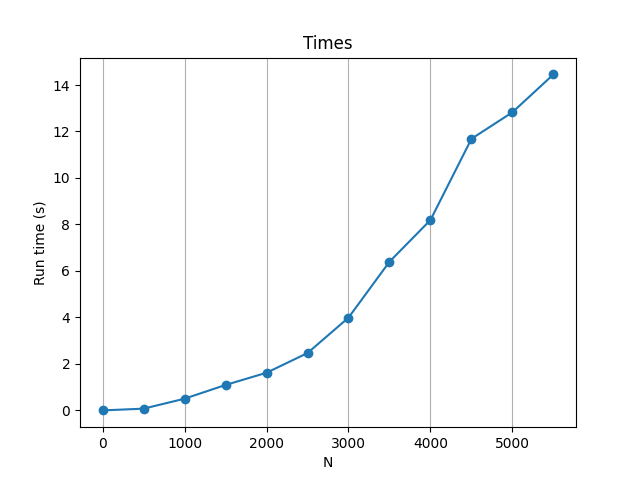
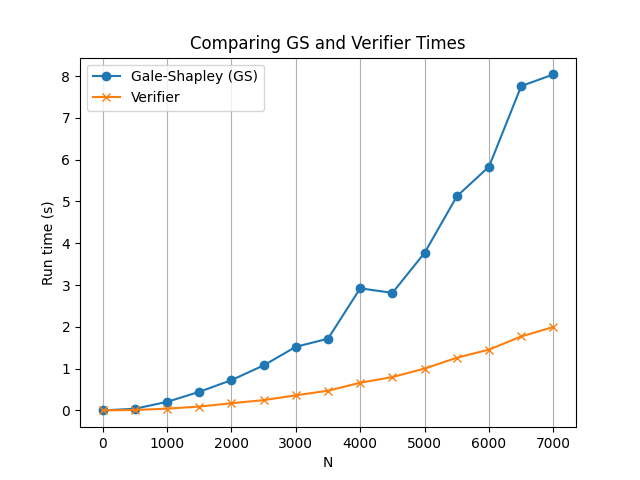
Edited the README.md file to contain the most up to date changes. Included a comparison between the verifier and algorithm in Task C. Lastly, added functionality for a manual CLI GS verifier.

diff --git a/src/main.py b/src/main.py
@@ -1,6 +1,6 @@
 import argparse
 
-from gale_shapley import GaleShapley
+from src.gale_shapley import GaleShapley
 from collections.abc import Iterable  # Checking if a hospital is matched with multiple students
 from pathlib import Path
 
@@ -65,6 +65,8 @@ def write_output(hospital_student_matching: dict[int, int], output_file: str) ->
         for hospital in hospital_student_matching:
             student = hospital_student_matching[hospital]
             file.write(f"{hospital} {student}\n")
+
+    print(f"Output was written to {output_file_path}")
 
 
 def verify_matching(matching: dict[int, int], hospital_preferences: dict[int, list[int]], student_preferences: dict[int, list[int]]) -> bool:
@@ -142,15 +144,64 @@ if __name__ == "__main__":
                                      "preferences. It creates a map based on these preferences, and "
                                      "then passes them into the Gale-Shapley algorithm.")
 
-    parser.add_argument("filename", type=str,
+    parser.add_argument("--filename", type=str,
                         help="The input file (complete filepath from the home project directory). A simple example "
                              "would be "
                              "`python src/main.py input_files/example_1.in`")
 
-    args = parser.parse_args()
-    hospital_pref, student_pref = parse_input(args.filename)
+    parser.add_argument("--v", action="store_true",
+                        help="Flag to specify the user only wants to test the verifier")
 
-    gs = GaleShapley()
-    result = gs.find_matches(hospital_pref, student_pref)
-    verify_matching(result, hospital_pref, student_pref)
-    write_output(result, args.filename)
+    args = parser.parse_args()
+    if args.v:
+        print("Enter the current hospital preferences separated by spaces (e.g. 1 2 3), or 'STOP' to enter student preferences:")
+        currentID = 1
+        hospital_preferences: dict[int, list[int]] = {}
+        user_input = ""
+        while user_input != "STOP":
+            user_input = input()
+            if user_input == "STOP":
+                break
+            try:
+                hospital_preferences[currentID] = [int(num) for num in user_input.split()]
+                currentID += 1
+            except ValueError:
+                print("Input was invalid, try again. Enter the current hospital preferences separated by spaces (e.g. 1 2 3), or 'STOP' to enter student preferences:")
+
+        print("Enter the current student preferences separated by spaces (e.g. 1 2 3), or 'STOP' to enter final matching:")
+        currentID = 1
+        student_preferences: dict[int, list[int]] = {}
+        user_input = ""
+        while user_input != "STOP":
+            user_input = input()
+            if user_input == "STOP":
+                break
+            try:
+                student_preferences[currentID] = [int(num) for num in user_input.split()]
+                currentID += 1
+            except ValueError:
+                print(
+                    "Input was invalid, try again. Enter the current student preferences separated by spaces (e.g. 1 2 3), or 'STOP' to enter final matching:")
+
+        print("Enter the current matching (e.g. 1 2), or 'STOP' to start the verifier:")
+        matching: dict[int, int] = {}
+        user_input = ""
+        while user_input != "STOP":
+            user_input = input()
+            if user_input == "STOP":
+                break
+            try:
+                pair = [int(num) for num in user_input.split()]
+                matching[pair[0]] = pair[1]
+            except ValueError:
+                print(
+                    "Input was invalid, try again. Enter the current matching (e.g. 1 2), or 'STOP' to start the verifier:")
+
+        verify_matching(matching, hospital_preferences, student_preferences)
+    else:
+        hospital_pref, student_pref = parse_input(args.filename)
+
+        gs = GaleShapley()
+        result = gs.find_matches(hospital_pref, student_pref)
+        verify_matching(result, hospital_pref, student_pref)
+        write_output(result, args.filename)

diff --git a/tests/test_gale_shapley.py b/tests/test_gale_shapley.py
@@ -1,9 +1,147 @@
-import unittest
+from src.gale_shapley import GaleShapley
+from src.main import verify_matching
 
+gs = GaleShapley()
 
-class TestStringMethods(unittest.TestCase):
-    pass
+def test_simple_gs():
+    h_pref: dict[int, list[int]] = {
+        1: [1, 2, 3],
+        2: [2, 3, 1],
+        3: [2, 1, 3]
+    }
+    s_pref: dict[int, list[int]] = {
+        1: [2, 1, 3],
+        2: [1, 2, 3],
+        3: [1, 2, 3]
+    }
+    assert gs.find_matches(h_pref, s_pref) == {
+        1: 1,
+        2: 2,
+        3: 3
+    }
 
+def test_simple_verification():
+    h_pref: dict[int, list[int]] = {
+        1: [1, 2, 3],
+        2: [2, 1, 3],
+        3: [3, 2, 1]
+    }
+    s_pref: dict[int, list[int]] = {
+        1: [1, 2, 3],
+        2: [2, 1, 3],
+        3: [1, 2, 3]
+    }
+    matching: dict[int, int] = {
+        1: 1,
+        2: 2,
+        3: 3
+    }
+    assert verify_matching(matching, h_pref, s_pref) == True
 
-if __name__ == "__main__":
-    unittest.main()
+def test_invalid_verification():
+    h_pref: dict[int, list[int]] = {
+        1: [1, 2, 3],
+        2: [2, 1, 3],
+        3: [3, 2, 1]
+    }
+    s_pref: dict[int, list[int]] = {
+        1: [1, 2, 3],
+        2: [2, 1, 3],
+        3: [1, 2, 3]
+    }
+    matching: dict[int, int] = {
+        1: 2,
+        2: 1,
+        3: 3
+    }
+    assert verify_matching(matching, h_pref, s_pref) == False
+
+def test_invalid_missing_val():
+    h_pref: dict[int, list[int]] = {
+        1: [1, 2, 3],
+        2: [2, 1, 3],
+        3: [3, 2, 1]
+    }
+    s_pref: dict[int, list[int]] = {
+        1: [1, 2, 3],
+        2: [2, 1, 3],
+        3: [1, 2, 3]
+    }
+    matching: dict[int, int] = {
+        1: 2,
+        2: 1,
+        3: 0
+    }
+    assert verify_matching(matching, h_pref, s_pref) == False
+
+def test_invalid_duplicated_student():
+    h_pref: dict[int, list[int]] = {
+        1: [1, 2, 3],
+        2: [2, 1, 3],
+        3: [1, 2, 3]
+    }
+    s_pref: dict[int, list[int]] = {
+        1: [3, 2, 1],
+        2: [1, 2, 3],
+        3: [3, 2, 1]
+    }
+    matching: dict[int, int] = {
+        1: 3,
+        2: 1,
+        3: 3
+    }
+    assert verify_matching(matching, h_pref, s_pref) == False
+
+def test_simple_correct_verification():
+    h_pref: dict[int, list[int]] = {
+        1: [1, 2, 3],
+        2: [2, 1, 3],
+        3: [1, 2, 3]
+    }
+    s_pref: dict[int, list[int]] = {
+        1: [2, 1, 3],
+        2: [1, 2, 3],
+        3: [1, 2, 3]
+    }
+    matching = {
+        1: 2,
+        2: 1,
+        3: 3
+    }
+    assert verify_matching(matching, h_pref, s_pref) == True
+
+def test_unstable_pairs():
+    h_pref: dict[int, list[int]] = {
+        1: [1, 2, 3],
+        2: [3, 2, 1],
+        3: [2, 3, 1]
+    }
+    s_pref: dict[int, list[int]] = {
+        1: [1, 2, 3],
+        2: [1, 2, 3],
+        3: [1, 3, 2]
+    }
+    matching = {
+        1: 2,
+        2: 3,
+        3: 1
+    }
+    assert verify_matching(matching, h_pref, s_pref) == False
+
+def test_stable_pairs():
+    h_pref: dict[int, list[int]] = {
+        1: [1, 2, 3],
+        2: [3, 2, 1],
+        3: [2, 3, 1]
+    }
+    s_pref: dict[int, list[int]] = {
+        1: [1, 2, 3],
+        2: [1, 2, 3],
+        3: [1, 3, 2]
+    }
+    matching = {
+        1: 1,
+        2: 2,
+        3: 3
+    }
+    assert verify_matching(matching, h_pref, s_pref) == True

diff --git a/tests/test_speed.py b/tests/test_speed.py
@@ -1,4 +1,5 @@
 from src.gale_shapley import GaleShapley
+from src.main import verify_matching
 import numpy as np
 import time
 import matplotlib.pyplot as plt
@@ -11,7 +12,7 @@ def build_parser():
         "-n", "--number", required=True, help="n * 500 to test up to", type=int
     )
     parser.add_argument(
-        "-o", "--output", default="results.png", help="Path to save runtime plot"
+        "-o", "--output", default="results.png", help="Path to save runtime plot comparing gs algorithm with the verifier"
     )
     return parser
 
@@ -35,6 +36,7 @@ def test_times(n):
     n where n is 500 * n the testing will go to"""
     vals_to_test = [500 * i for i in range(n)]
     perf_times = []
+    verif_times = []
     gs = GaleShapley()
 
     for val in vals_to_test:
@@ -43,21 +45,38 @@ def test_times(n):
         pref_b = generate_pref_list(val, 12)
 
         st = time.perf_counter()
-        gs.find_matches(pref_a, pref_b)
+        res = gs.find_matches(pref_a, pref_b)
         perf_times.append(time.perf_counter() - st)
 
-    return perf_times
+        st = time.perf_counter()
+        verify_matching(res, pref_a, pref_b)
+        verif_times.append(time.perf_counter() - st)
+
+    return perf_times, verif_times
 
 
 def test_and_graph(n, path_to_save):
     xs = [500 * i for i in range(n)]
-    ys = test_times(n)
-    plt.plot(xs, ys, marker="o")
-    plt.title("Times")
+
+    times = test_times(n)
+    ys = times[0]  # For GS algorithm
+    y2s = times[1] # For verifier
+
+    plt.figure()
+
+    plt.plot(xs, ys, marker="o", label="Gale-Shapley (GS)")
+    plt.plot(xs, y2s, marker="x", label="Verifier")
+
+    plt.title("Comparing GS and Verifier Times")
+
     plt.xlabel("N")
     plt.ylabel("Run time (s)")
+
     plt.grid(True, which="both", axis="x")
+    plt.legend()
+
     plt.savefig(path_to_save)
+    plt.close()
 
 
 def main():

diff --git a/README.md b/README.md
@@ -2,25 +2,51 @@
 
 Group Members:
 - Tom Shal-bar, 36397041
-- Thomas Tavera
+- Thomas Tavera, 38874789
 
 # Run instructions:
 1) Clone repo
-2) Install requirements from requirements.tx
+
+```git clone https://github.com/tomshalbar/COP4533-Gale-Shapley.git```
+
+2) cd to COP4533-Gale-Shapley root path
+
+```cd COP4533-Gale-Shapley```
+
+3) Create the Python Virtual Environment (venv)
+
+```python3 -m venv .venv```
+
+4) Install requirements from requirements.txt
 
 ```pip install -r requirements.txt```
 
-3) cd to COP4533-Gale-Shapley root path
-4) To run Gale-Shapley:
+5) To run Gale-Shapley (and by extension the automatic verifier):
 
-```python -m src.main.py input_files/example.in```
+```python -m src.main --filename input_files/example_2.in```
 
-5) To run speed_tester:
+- The output for this specific input file would be in `output_files/example_2.out`
 
-```python src/main.py input_files/example.in```
+6) To run speed_tester (program that produced chart in Task C):
+
+```python -m tests.test_speed --number=5```
+
+7) To run the Pytest Testing Suite:
+
+```pytest tests/test_gale_shapley.py```
+
+- This contains some unit tests checking both the Gale-Shapley Algorithm and the Verification algorithm
+
+8) Lastly, to run the verifier manually:
+
+```python -m src.main --v```
+
+Here is an example screenshot:
+
+![results](assets/example_screenshot.png)
 
 # Task C
 
-The running time of the G-S algorithem seems to increase exponantially with the size of the input. This makes sense, since the worst case run time of the algorithem is O(n^2).
+The running time of the G-S algorithm seems to increase exponentially with the size of the input. This makes sense, since the worst case run time of the algorithm is $O(n^2)$. The verifier worst time case is also $O(n^2)$; however, it is much faster than the algorithm itself since it primarily features read only operations. The G-S algorithm does a lot of dictionary updates and contains more logic inside its loop, as a result, it runs much slower compared to the verifier.    
 
-![results](assets/speed14.png)
+![results](assets/results.png)
